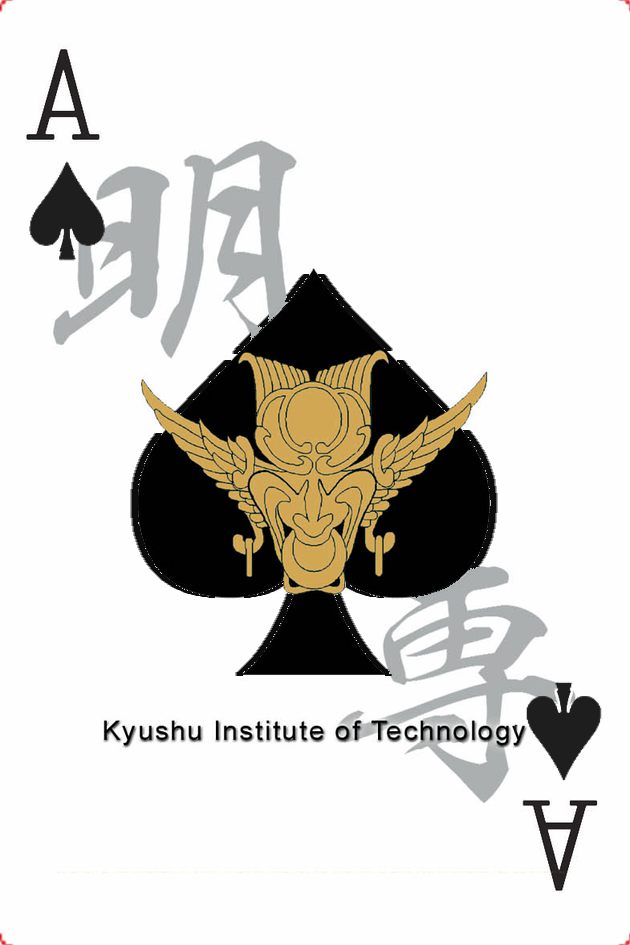
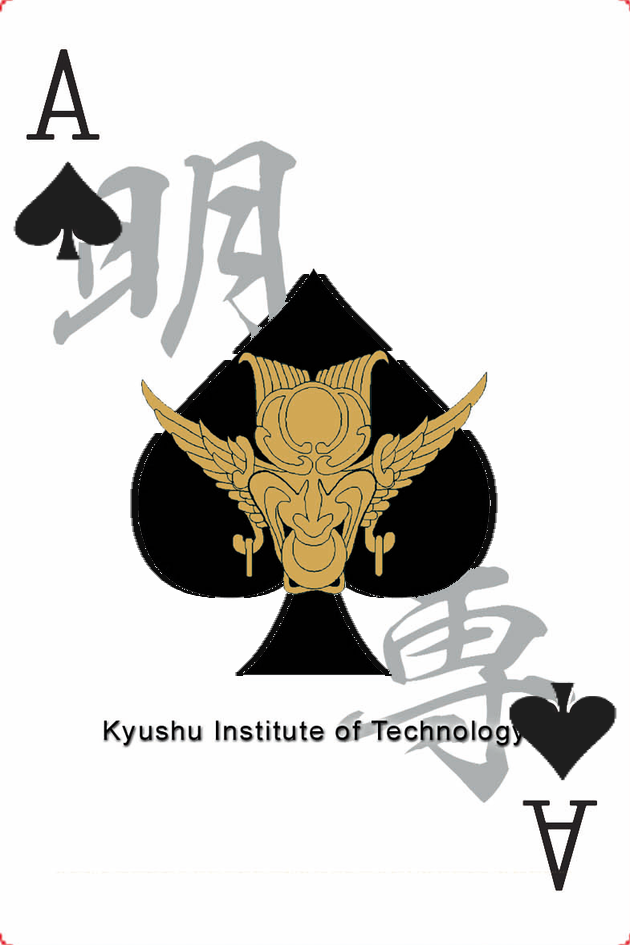
Match ace corner spade widths

diff --git a/shared/game-client/densho-revision.ts b/shared/game-client/densho-revision.ts
@@ -1,2 +1,2 @@
 // Generated by build-densho-cards.mjs; do not edit.
-export const DENSHO_ASSET_REVISION = '515b48f6fc3e';
+export const DENSHO_ASSET_REVISION = 'bfa5ea6f19c6';

diff --git a/shared/game-client/assets/densho/README.md b/shared/game-client/assets/densho/README.md
@@ -8,7 +8,8 @@ design remains unchanged. SVG suit silhouettes use 82% width and 72% height;
 the two corner suits use 90% width and 84% height for legibility at small sizes.
 All suits, including those within court illustrations, keep their positions.
 The ace of spades scan is preserved as supplied; only its derived renders
-widen the central black spade and proportionally enlarge the two corner spades.
+widen the central black spade and enlarge the two corner spades horizontally to
+match the SVG corner suit widths, while keeping their existing height.
 The gold illustration and lettering retain their original position and proportions.
 The Tanzen scan is also preserved; its derived renders enlarge the thin
 `anzen` letters by 20% and slightly thicken the two vertical labels. The large
